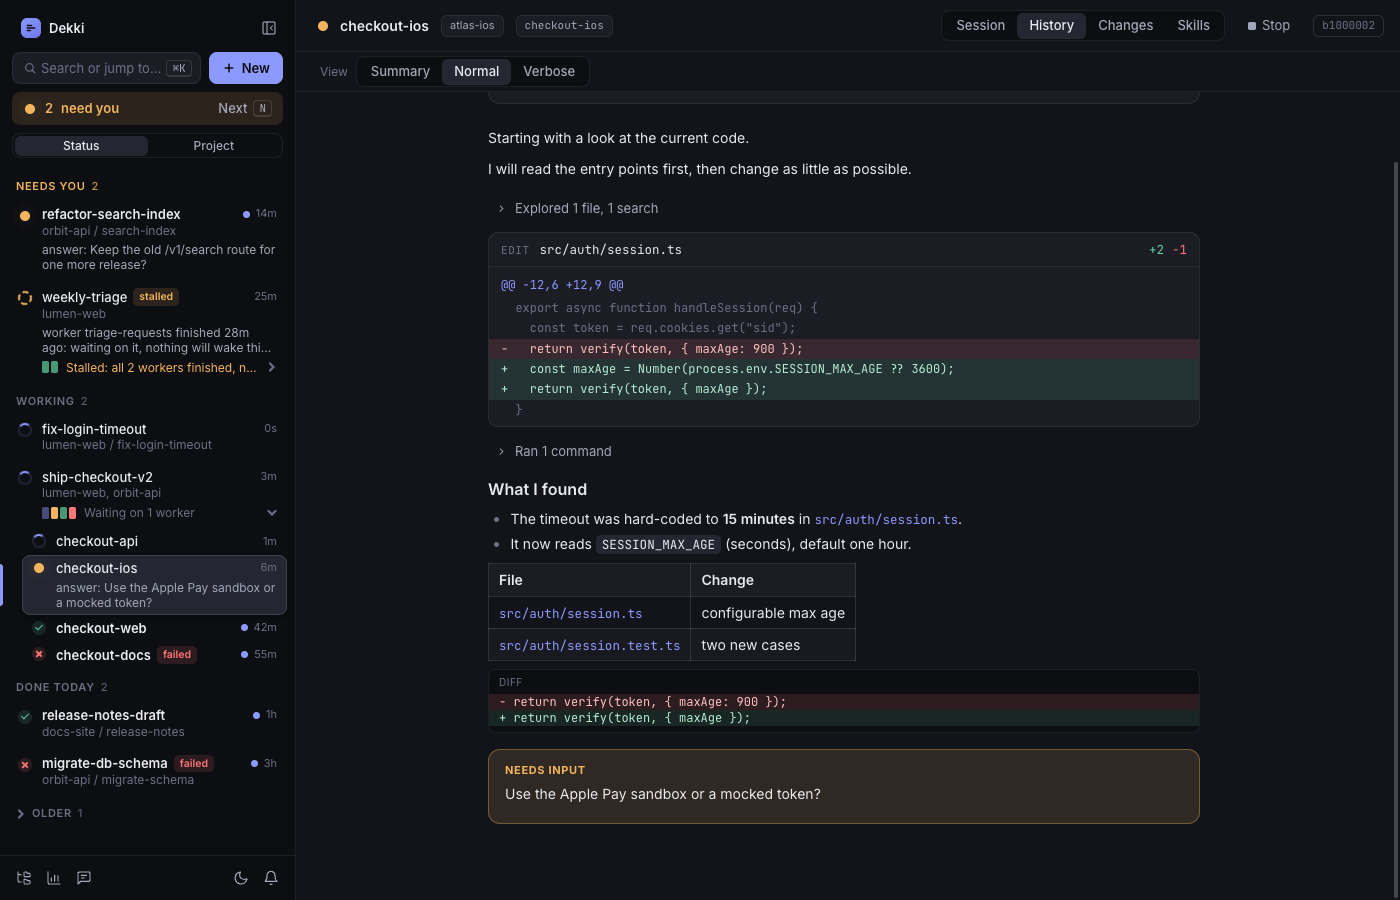
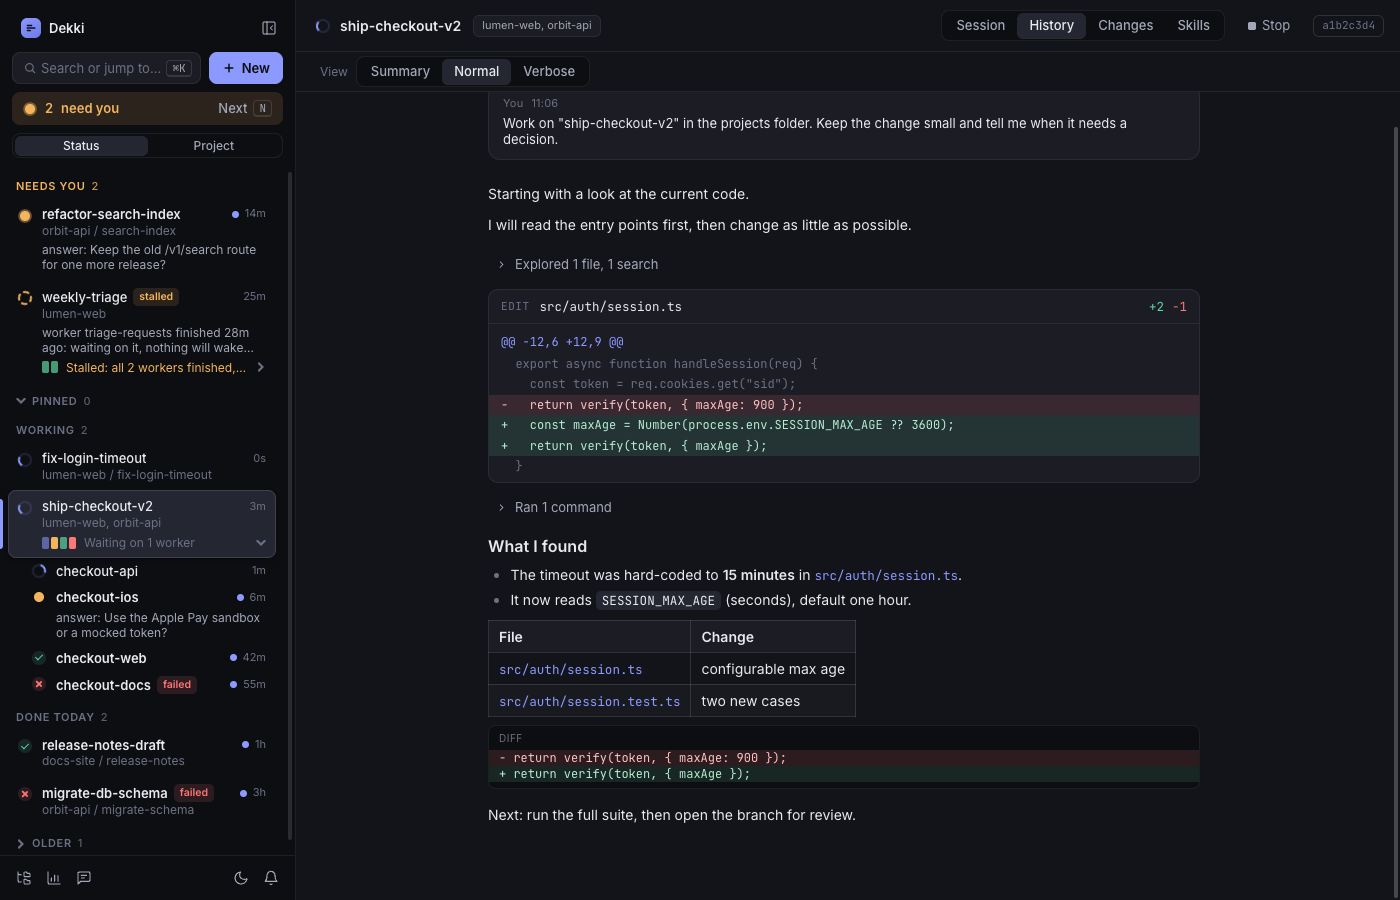
README: lead with the way of working, then the tool
Reorder the README: what and why, the approach in five bullets, what you get,
quick start, then the existing detail. Add a short 'Make it yours' section and
replace the hero with a demo-mode manager view (made-up data).

diff --git a/README.md b/README.md
@@ -1,34 +1,29 @@
 # Dekki
 
-Dekki is a local web UI for Claude Code background agents: see every agent at a glance, read its full history, and jump into its live session.
+If you already run several Claude Code agents at once, Dekki gives that a structure: one manager agent that you talk to, isolated workers that do the work, and one place that shows which of them need you. If you have never delegated to agents, it is a way to start that way.
 
-![Dekki showing an agent's History tab, dark theme](docs/screenshots/hero-dark.png)
+![Dekki showing a manager agent with its workers, dark theme](docs/screenshots/hero-dark.png)
 
-Dekki runs on your machine, talks to the `claude` CLI, and shows what `claude agents` shows in a terminal, with a longer memory and a layout that makes it clear which agents need you.
+I built it around one way of working: I tell a manager what I want, and I step in only where a decision is mine. This is the short version. The longer one, with the setup behind it, is in [docs/APPROACH.md](docs/APPROACH.md).
 
-## What it does
+## The approach
 
-- **Agent list** grouped by what matters: needs you, working, done today, older. Each row has a status glyph, project and branch, and the question an agent is waiting on. Manager agents show a bar of their workers. A Status | Project switch regroups the list by project.
-- **Session tab**: the real Claude Code terminal for the selected agent (it attaches with `claude attach`), so you can answer an agent without leaving the page.
-- **History tab**: the full transcript read from Claude's session files, with no terminal scrollback limit. Consecutive tool calls fold into one line, edits show as diffs, and a closing `result:`, `needs input:` or `failed:` line gets its own card. Summary, Normal and Verbose views.
-- **Command palette** (`Cmd+K`) to jump to any agent or run an action, plus keyboard navigation.
-- **Mission-control home** with counts and the agents waiting on you.
-- **Skill and tool stats** per agent and across all sessions.
-- **Saved prompts**: markdown files in a folder, usable when you start a new agent.
-- **Several Claude accounts**, each with its own config directory and working folder.
-- **Notifications** when an agent needs you or finishes (macOS only, see below).
-- Dark and light themes, with a System setting that follows the OS.
+- **Goals, not folders.** You say what you want. The manager works out which projects are involved and states its plan before it starts.
+- **One manager, isolated workers.** The manager delegates and does not edit code. Each worker runs in its own project folder, in its own git worktree and branch.
+- **Evidence sized to the change.** A small script reads the diff and sets how much checking it needs: nothing for docs, a build and lint for a removal, scoped tests for new logic, the full suite for anything sensitive.
+- **Every change leaves a trace.** Short docs outside the repo say what is true now, why, and what happened, so the next agent can pick up where the last one stopped.
+- **A person decides what is irreversible.** Pushes to protected branches, merges, releases and deletes stay with you. Workers report back with `result:`, `needs input:` or `failed:`, and the manager asks you.
 
-How it is built:
+## What you get
 
-- It drives the `claude` CLI (`claude agents`, `claude attach`, `claude --bg`, `claude rm`). It does not reimplement Claude Code.
-- It binds to `127.0.0.1` only and checks the Host and Origin headers on every request and WebSocket, so other websites in your browser cannot reach it.
-- No database. The only state is one small JSON file (`~/.dekki/state.json`) holding pins, archived agents, custom names and settings.
-- Few dependencies: `node-pty` and `ws` on the server; React, Vite and xterm.js for the page.
+- **A setup wizard** that writes a manager playbook, delegate scripts, deny rules for risky git commands, the change-size tiers and the docs layout into your working folder. It never overwrites a file you already have.
+- **A local app** that watches your Claude Code agents. It groups them by what matters (needs you, working, done, older), shows each manager's workers as a bar, and lets you read any agent's full history or answer it in its live terminal.
 
-How I work with agents (a manager that delegates, isolated workers, evidence sized by the change, short docs) and how to adapt it: [docs/APPROACH.md](docs/APPROACH.md).
+Dekki runs on your machine and drives the `claude` CLI; it does not reimplement Claude Code. It is a single-user tool: it listens on `127.0.0.1` only and has no authentication (see [Safety and notes](#safety-and-notes)).
 
 ## Quick start
+
+You need Node 22.12 or newer and the `claude` CLI signed in (details under [Requirements](#requirements)).
 
 ```
 npm install
@@ -49,11 +44,37 @@ DEKKI_DEMO=1 PORT=4350 npm start
 
 Start, stop, delete and upload are switched off in demo mode. Add `DEKKI_DEMO_ACCOUNTS=2` to show two made-up accounts and the account switcher.
 
-## First-time setup
+## Set up your manager
 
-The first time you open Dekki, the home screen offers a **Set up** button (it is also in the command palette). A four-step wizard asks for your working folder (the folder that holds your projects), a docs folder (no default, you choose), a few preferences (reply style, autonomy, git habits, language) and what must stay safe. It writes a manager playbook and delegate scripts into the working folder. It never overwrites a file and never edits an existing `CLAUDE.md` unless you tick the box for it. It ends with a health check and tells you which folders to trust once. Background: [docs/APPROACH.md](docs/APPROACH.md).
+The first time you open Dekki, the home screen offers a **Set up** button (it is also in the command palette). A four-step wizard asks for your working folder (the folder that holds your projects), a docs folder (no default, you choose), a few preferences (reply style, autonomy, git habits, language) and what must stay safe. It writes a manager playbook and delegate scripts into the working folder. It never overwrites a file and never edits an existing `CLAUDE.md` unless you tick the box for it. It ends with a health check and tells you which folders to trust once. What each file is for: [docs/APPROACH.md](docs/APPROACH.md).
 
 ![The first screen of the setup wizard, dark theme](docs/screenshots/setup-wizard.png)
+
+## What the app does
+
+- **Agent list** grouped by what matters: needs you, working, done today, older. Each row has a status glyph, project and branch, and the question an agent is waiting on. Manager agents show a bar of their workers. A Status | Project switch regroups the list by project.
+- **Session tab**: the real Claude Code terminal for the selected agent (it attaches with `claude attach`), so you can answer an agent without leaving the page.
+- **History tab**: the full transcript read from Claude's session files, with no terminal scrollback limit. Consecutive tool calls fold into one line, edits show as diffs, and a closing `result:`, `needs input:` or `failed:` line gets its own card. Summary, Normal and Verbose views.
+- **Command palette** (`Cmd+K`) to jump to any agent or run an action, plus keyboard navigation.
+- **Mission-control home** with counts and the agents waiting on you.
+- **Skill and tool stats** per agent and across all sessions.
+- **Saved prompts**: markdown files in a folder, usable when you start a new agent.
+- **Several Claude accounts**, each with its own config directory and working folder.
+- **Notifications** when an agent needs you or finishes (macOS only, see below).
+- Dark and light themes, with a System setting that follows the OS.
+
+How it is built:
+
+- It drives the `claude` CLI (`claude agents`, `claude attach`, `claude --bg`, `claude rm`). It does not reimplement Claude Code.
+- It binds to `127.0.0.1` only and checks the Host and Origin headers on every request and WebSocket, so other websites in your browser cannot reach it.
+- No database. The only state is one small JSON file (`~/.dekki/state.json`) holding pins, archived agents, custom names and settings.
+- Few dependencies: `node-pty` and `ws` on the server; React, Vite and xterm.js for the page.
+
+## Make it yours
+
+The playbook is a solid baseline, not a finished system. Everyone works differently, so change it: re-run the wizard, edit the playbook text, or adjust the tiers and the docs rules ([how](docs/APPROACH.md#how-to-adapt-it)). You can also ask the manager to propose improvements to its own rules. It suggests, you approve.
+
+Dekki works with Claude Code only. The way of working is not tied to it and you can borrow it for another tool, but the app and the setup are not portable.
 
 ## Multiple Claude accounts
 
